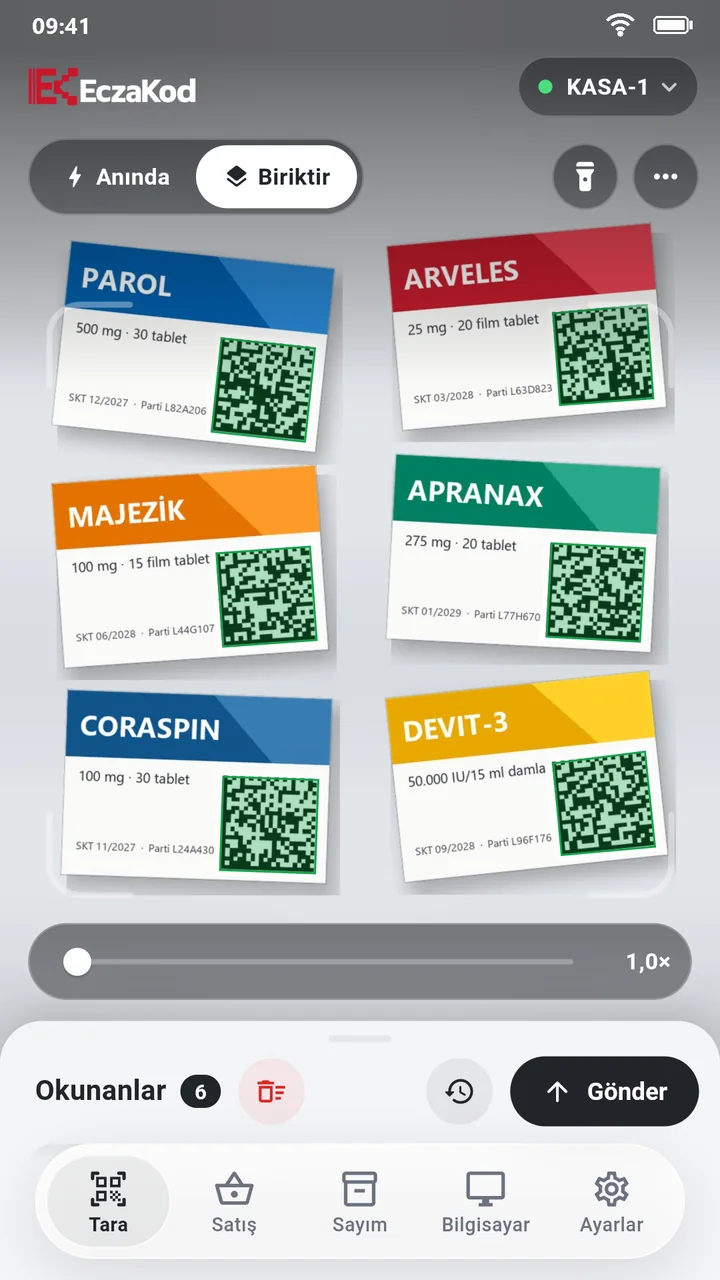
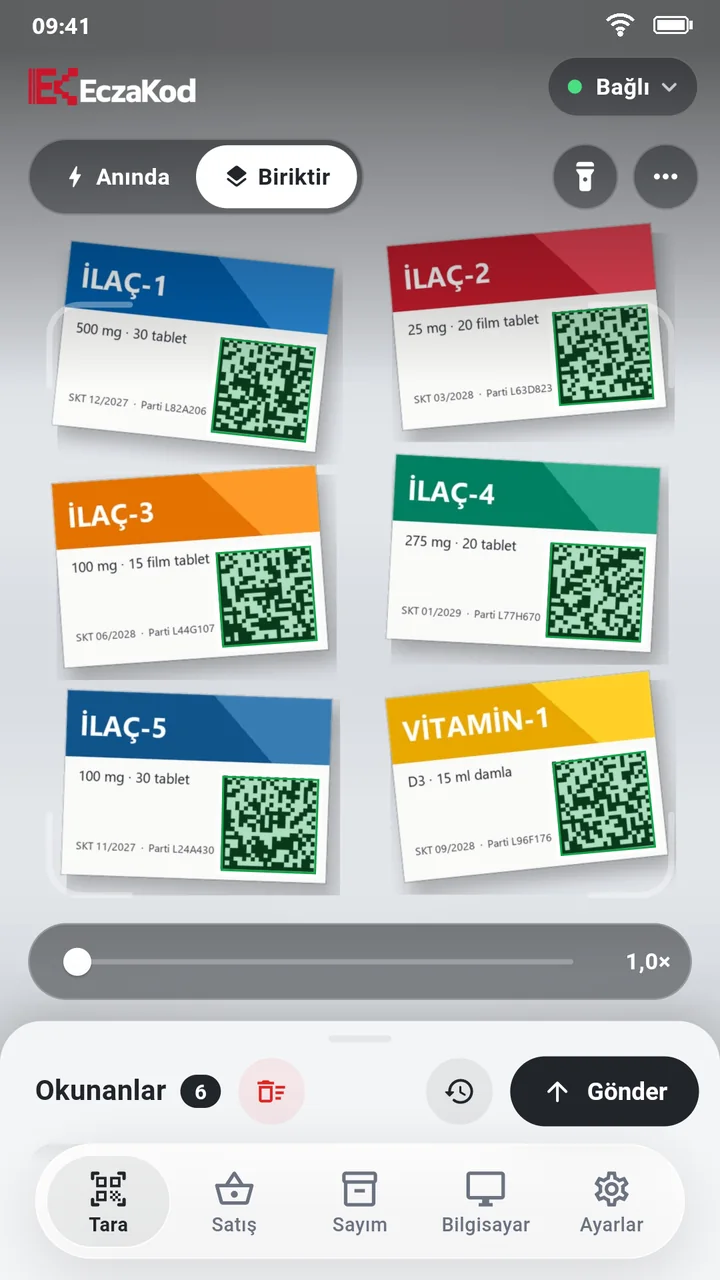
Görsellerde ve metinde gerçek ilaç adı yok: İLAÇ-1, VİTAMİN-1, DERMO-1 gibi örnek adlar

diff --git a/index.html b/index.html
@@ -58,12 +58,12 @@
         <table>
           <thead><tr><th>Ürün</th><th class="sayi">Adet</th><th class="sayi">Tutar</th></tr></thead>
           <tbody>
-            <tr><td>PAROL 500MG 30 TABLET</td><td class="sayi">1</td><td class="sayi">105,16</td></tr>
-            <tr><td>ARVELES 25MG 20 FİLM TABLET</td><td class="sayi">1</td><td class="sayi">118,47</td></tr>
-            <tr><td>MAJEZİK 100MG 15 FİLM TABLET</td><td class="sayi">1</td><td class="sayi">204,49</td></tr>
-            <tr><td>APRANAX 275MG 20 TABLET</td><td class="sayi">1</td><td class="sayi">151,51</td></tr>
-            <tr><td>CORASPIN 100MG 30 TABLET</td><td class="sayi">1</td><td class="sayi">64,78</td></tr>
-            <tr><td>DEVIT-3 50.000IU/15ML DAMLA</td><td class="sayi">1</td><td class="sayi">152,63</td></tr>
+            <tr><td>İLAÇ-1 500MG 30 TABLET</td><td class="sayi">1</td><td class="sayi">105,16</td></tr>
+            <tr><td>İLAÇ-2 25MG 20 FİLM TABLET</td><td class="sayi">1</td><td class="sayi">118,47</td></tr>
+            <tr><td>İLAÇ-3 100MG 15 FİLM TABLET</td><td class="sayi">1</td><td class="sayi">204,49</td></tr>
+            <tr><td>İLAÇ-4 275MG 20 TABLET</td><td class="sayi">1</td><td class="sayi">151,51</td></tr>
+            <tr><td>İLAÇ-5 100MG 30 TABLET</td><td class="sayi">1</td><td class="sayi">64,78</td></tr>
+            <tr><td>VİTAMİN-1 D3 15ML DAMLA</td><td class="sayi">1</td><td class="sayi">152,63</td></tr>
           </tbody>
         </table>
         <div class="toplam"><span>Toplam</span><span data-toplam>797,04 ₺</span></div>
@@ -142,7 +142,7 @@
         </ul>
       </div>
       <div class="gorsel">
-        <figure class="telefon"><img src="img/ekran/miad.webp" alt="Miadı geçmiş kutu uyarısı: PAROL 500MG 30 TABLET, SKT 03/2026" loading="lazy"></figure>
+        <figure class="telefon"><img src="img/ekran/miad.webp" alt="Miadı geçmiş kutu uyarısı: İLAÇ-1 500MG 30 TABLET, SKT 03/2026" loading="lazy"></figure>
         <figure class="telefon"><img src="img/ekran/fiyatbak-miad.webp" alt="Fiyat bak kartı: miadı geçmiş etiketi, ürün tipi ve KDV" loading="lazy"></figure>
       </div>
     </article>
